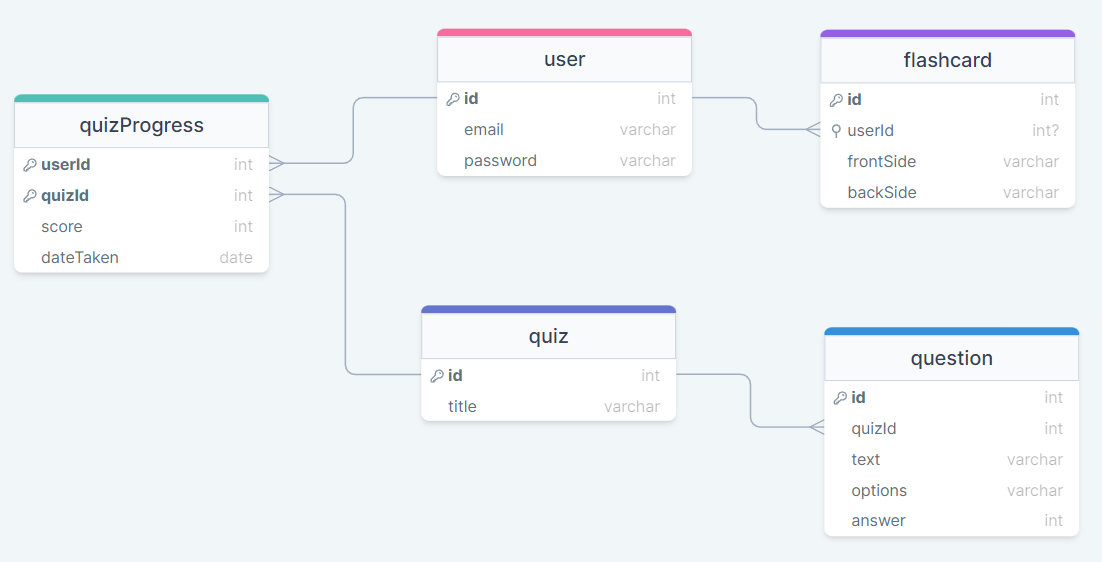
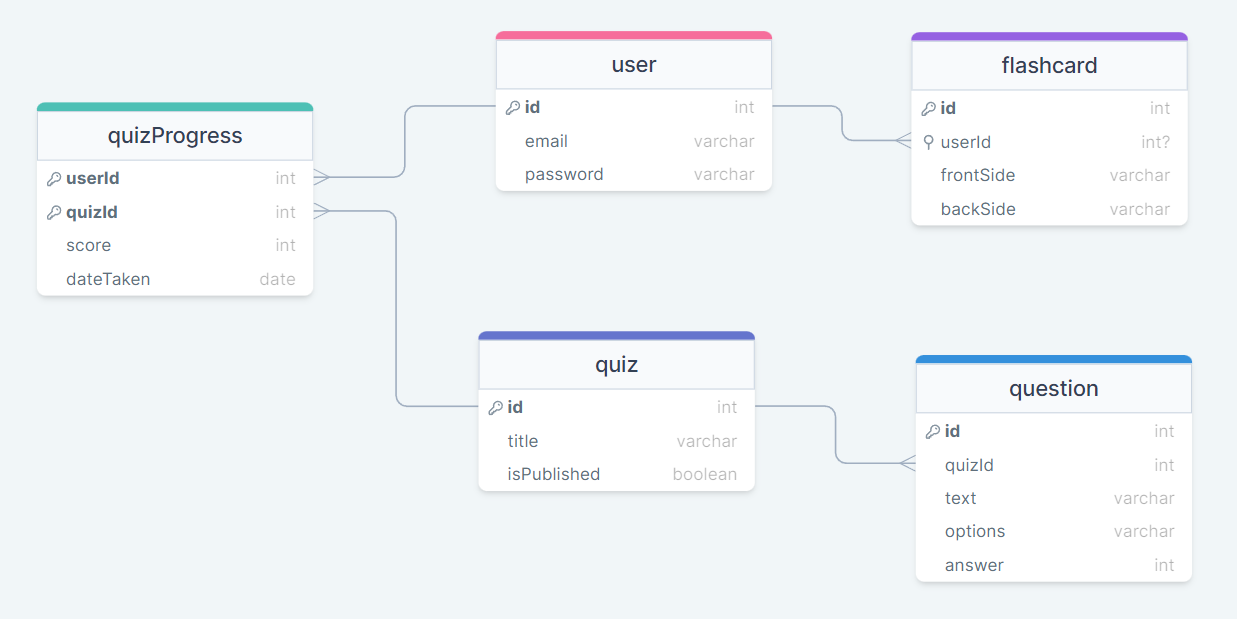
bugfix

diff --git a/backend/src/routes/flashcardRoutes.ts b/backend/src/routes/flashcardRoutes.ts
@@ -9,7 +9,19 @@ import handleErrorWithResponse from '../utils/errorHandler';
 
 const flashcardRoutes = express.Router();
 
-flashcardRoutes.route('/flashcards/:id').get(verifyToken, async (req, res) => {
+flashcardRoutes.route('/flashcard/user').get(verifyToken, async (req, res) => {
+	const userId = ((req as RequestWithToken).decodedToken as JwtPayload).userId;
+
+	try {
+		let flashcards: FlashcardModel[] = await getFlashcards(userId);
+
+		return res.status(200).json(flashcards);
+	} catch (e) {
+		handleErrorWithResponse(e, res);
+	}
+});
+
+flashcardRoutes.route('/flashcard/:id').get(verifyToken, async (req, res) => {
 	const id = parseInt(req.params.id);
 	if (isNaN(id)) return res.status(400).json('Bad Request');
 
@@ -23,7 +35,7 @@ flashcardRoutes.route('/flashcards/:id').get(verifyToken, async (req, res) => {
 	}
 });
 
-flashcardRoutes.route('/flashcards/').get(verifyToken, async (req, res) => {
+flashcardRoutes.route('/flashcard').get(verifyToken, async (req, res) => {
 	try {
 		let flashcards: FlashcardModel[] = await getFlashcards();
 
@@ -33,21 +45,10 @@ flashcardRoutes.route('/flashcards/').get(verifyToken, async (req, res) => {
 	}
 });
 
-flashcardRoutes.route('/flashcards/user/').get(verifyToken, async (req, res) => {
-	const userId = ((req as RequestWithToken).decodedToken as JwtPayload).userId;
-
-	try {
-		let flashcards: FlashcardModel[] = await getFlashcards(userId);
-
-		return res.status(200).json(flashcards);
-	} catch (e) {
-		handleErrorWithResponse(e, res);
-	}
-});
-
 flashcardRoutes.route('/flashcard').post(verifyToken, async (req, res) => {
-	const { userId, frontSide, backSide }: Flashcard = req.body;
-	if (!userId || !frontSide || !backSide) return res.status(400).json('Bad Request');
+	const { frontSide, backSide }: Flashcard = req.body;
+	const userId = ((req as RequestWithToken).decodedToken as JwtPayload).userId;
+	if (!frontSide || !backSide) return res.status(400).json('Bad Request');
 
 	try {
 		await createFlashcard({ userId, frontSide, backSide });

diff --git a/backend/src/models/quiz.ts b/backend/src/models/quiz.ts
@@ -4,6 +4,7 @@ import db from '../config/database';
 export interface Quiz {
 	id?: number;
 	title: string;
+	isPublished: boolean;
 }
 
 interface QuizAttributes extends Quiz {}
@@ -19,8 +20,9 @@ const quiz: ModelDefined<Quiz, QuizAttributes> = db.define('quiz', {
 		type: Sequelize.STRING,
 		allowNull: false,
 	},
-	status: {
-		type: Sequelize.STRING,
+	isPublished: {
+		type: Sequelize.BOOLEAN,
+		defaultValue: false,
 		allowNull: false,
 	},
 });

diff --git a/backend/src/middlewares/flashcardOwnership.ts b/backend/src/middlewares/flashcardOwnership.ts
@@ -1,7 +1,3 @@
-// TODO:
-// cand fac request-uri, se va trimite token-ul si de acolo decodez id-ul utilizatorului
-// vad daca id-ul exista in tabela de flashcard-uri si daca da fac ce trebuie sa fac cu flashcard-urile
-
 import { NextFunction, Response } from 'express';
 import { JwtPayload } from 'jsonwebtoken'; // Import JwtPayload
 import { RequestWithToken } from '../config/interfaces';

diff --git a/backend/src/config/interfaces.ts b/backend/src/config/interfaces.ts
@@ -1,5 +1,5 @@
 import { Request } from 'express';
-import * as jwt from 'jsonwebtoken';
+import { JwtPayload } from 'jsonwebtoken';
 
 export interface LoginRequest {
 	email: string;
@@ -13,5 +13,5 @@ export interface RegisterRequest {
 }
 
 export interface RequestWithToken extends Request {
-	decodedToken?: string | jwt.JwtPayload;
+	decodedToken?: string | JwtPayload;
 }

diff --git a/backend/src/models/flashcard.ts b/backend/src/models/flashcard.ts
@@ -22,13 +22,14 @@ const flashcard: FlashcardModel = db.define(
 		},
 		userId: {
 			type: Sequelize.INTEGER,
+			defaultValue: null,
 			allowNull: true,
 		},
 		frontSide: {
 			type: Sequelize.STRING,
 			allowNull: false,
 		},
-		password: {
+		backSide: {
 			type: Sequelize.STRING,
 			allowNull: false,
 		},
